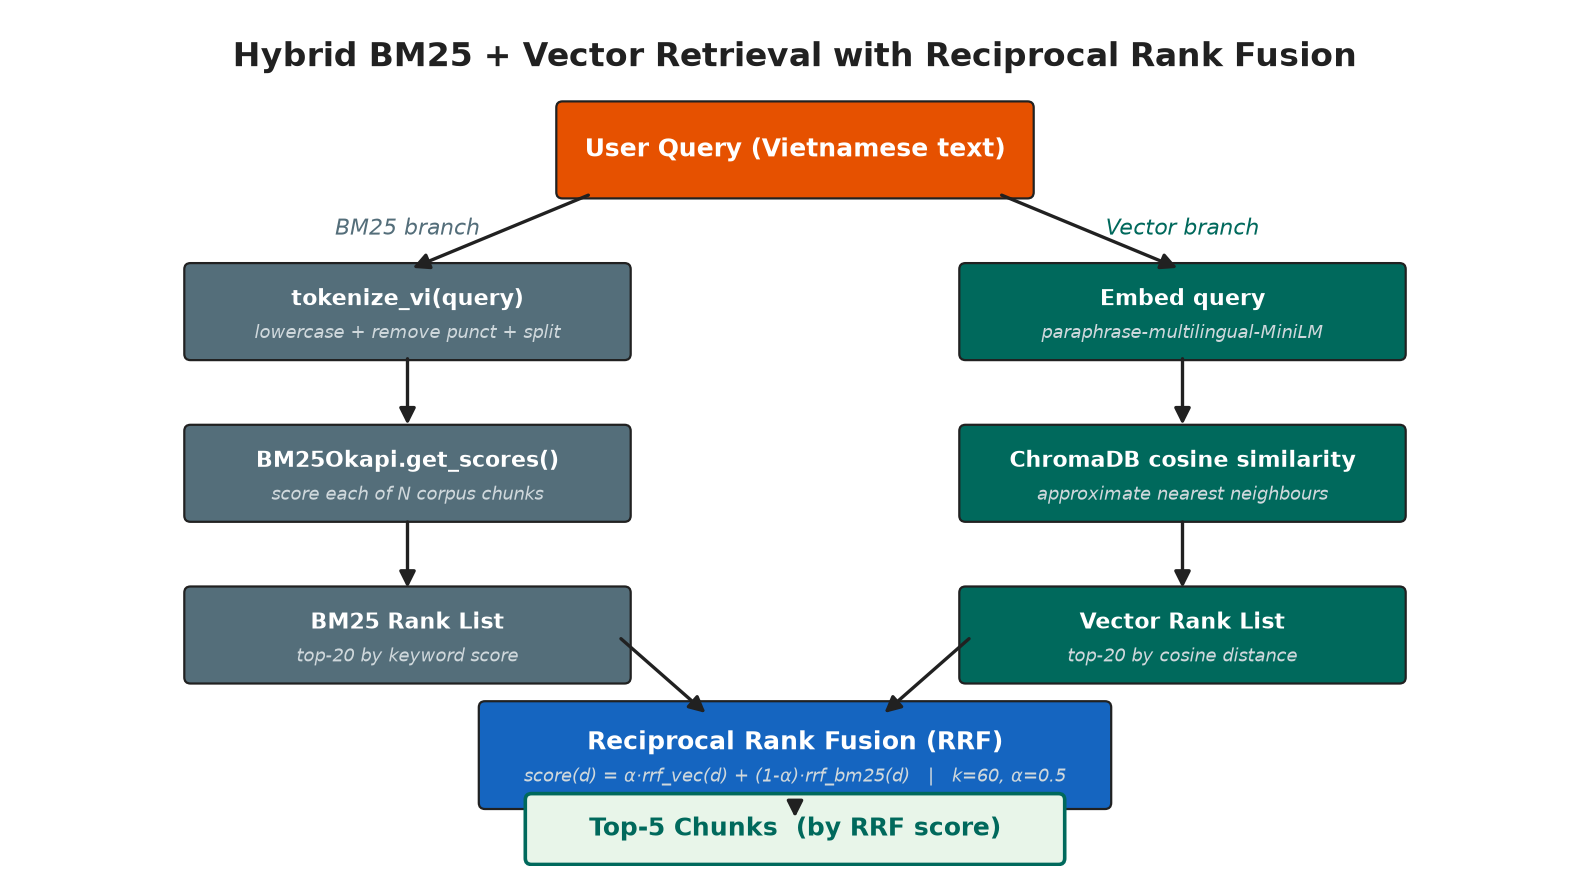
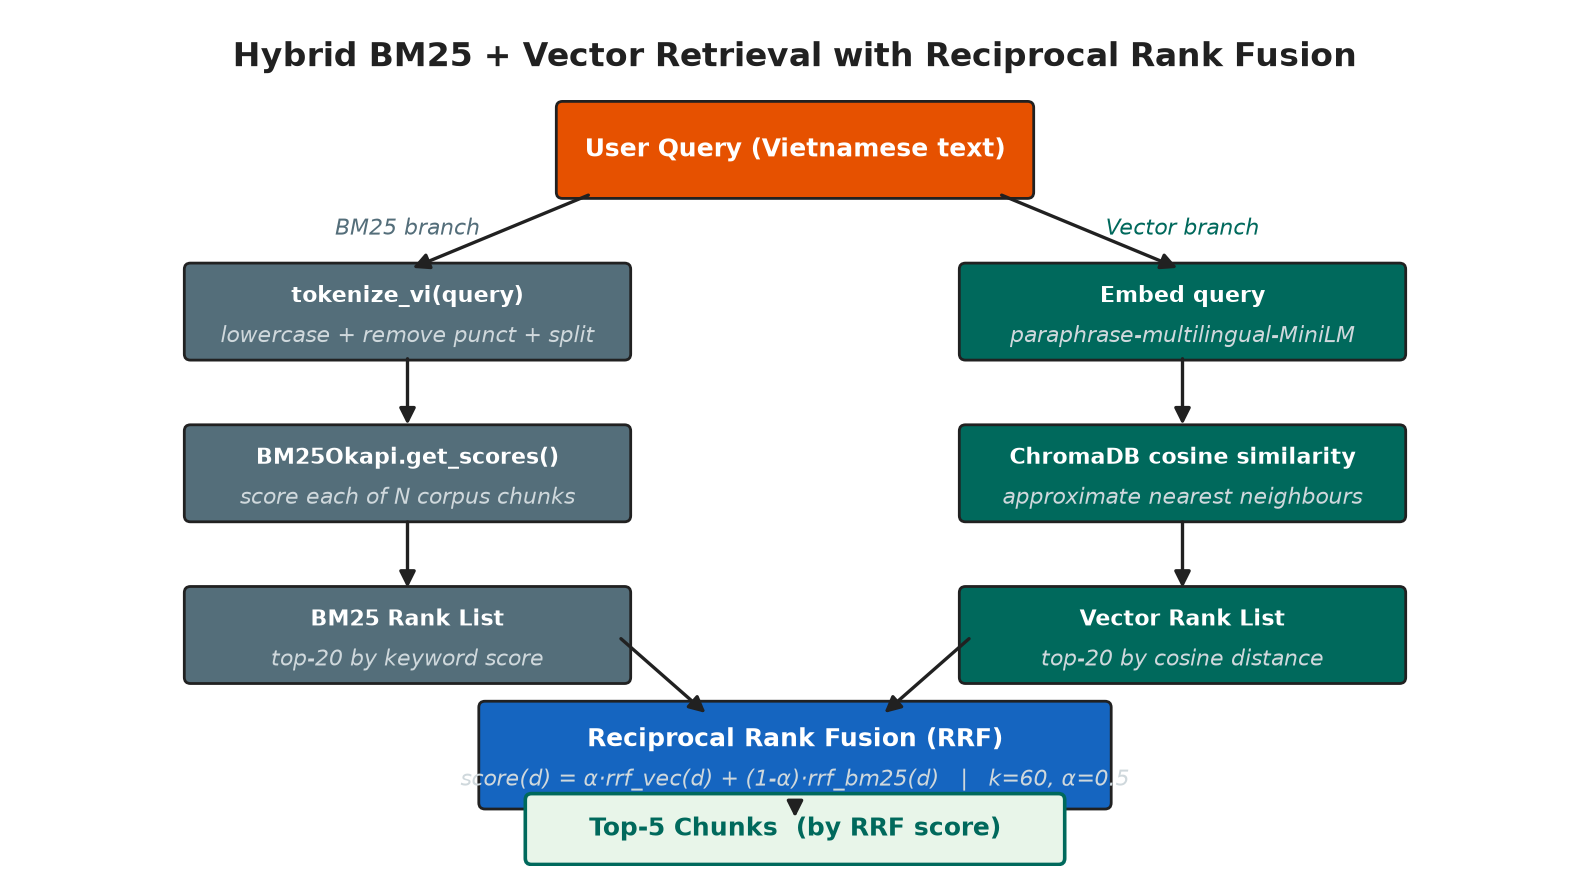
f

diff --git a/scripts/generate_thesis_figures.py b/scripts/generate_thesis_figures.py
@@ -130,19 +130,19 @@ def make_usth_logo():
 # ════════════════════════════════════════════════════════════════════════
 # 2. SYSTEM ARCHITECTURE DIAGRAM
 # ════════════════════════════════════════════════════════════════════════
-def _box(ax, x, y, w, h, label, sublabel="", color=C_BLUE, fontsize=9):
+def _box(ax, x, y, w, h, label, sublabel="", color=C_BLUE, fontsize=11):
     """Draw a rounded rectangle with label."""
     box = FancyBboxPatch((x - w/2, y - h/2), w, h,
                          boxstyle="round,pad=0.04",
                          facecolor=color, edgecolor=C_DARK,
-                         linewidth=0.8, zorder=3)
+                         linewidth=1.0, zorder=3)
     ax.add_patch(box)
-    ax.text(x, y + (0.08 if sublabel else 0), label,
+    ax.text(x, y + (0.10 if sublabel else 0), label,
             fontsize=fontsize, fontweight="bold", color=C_WHITE,
             ha="center", va="center", zorder=4)
     if sublabel:
-        ax.text(x, y - 0.14, sublabel,
-                fontsize=6.5, color="#CFD8DC",
+        ax.text(x, y - 0.16, sublabel,
+                fontsize=8, color="#CFD8DC",
                 ha="center", va="center", zorder=4, style="italic")
 
 
@@ -154,102 +154,102 @@ def _arrow(ax, x1, y1, x2, y2, color=C_DARK):
 
 
 def make_architecture():
-    fig, ax = plt.subplots(figsize=(11, 6.5), facecolor=C_LGREY)
-    ax.set_xlim(0, 11)
-    ax.set_ylim(0, 6.5)
+    fig, ax = plt.subplots(figsize=(14, 8), facecolor=C_LGREY)
+    ax.set_xlim(0, 14)
+    ax.set_ylim(0, 8)
     ax.axis("off")
 
     # Title
-    ax.text(5.5, 6.15, "End-to-End RAG Pipeline Architecture",
-            fontsize=13, fontweight="bold", color=C_DARK,
+    ax.text(7, 7.65, "End-to-End RAG Pipeline Architecture",
+            fontsize=16, fontweight="bold", color=C_DARK,
             ha="center", va="center")
 
     # ── OFFLINE phase (left side) ─────────────────────────────────
-    offline_bg = FancyBboxPatch((0.15, 2.2), 3.0, 3.9,
+    offline_bg = FancyBboxPatch((0.2, 2.6), 4.0, 5.0,
                                 boxstyle="round,pad=0.1",
                                 facecolor="#E3F2FD", edgecolor=C_BLUE,
-                                linewidth=1.2, linestyle="--", zorder=1)
+                                linewidth=1.4, linestyle="--", zorder=1)
     ax.add_patch(offline_bg)
-    ax.text(1.65, 5.85, "OFFLINE  (Indexing)", fontsize=8,
+    ax.text(2.2, 7.30, "OFFLINE  (Indexing)", fontsize=10,
             color=C_BLUE, ha="center", fontweight="bold")
 
-    _box(ax, 1.65, 5.30, 2.6, 0.52, "HR Documents (×20)",
-         "20 Vietnamese policy texts", color=C_TEAL, fontsize=8)
-    _arrow(ax, 1.65, 5.04, 1.65, 4.56)
+    _box(ax, 2.2, 6.70, 3.2, 0.65, "HR Documents (x20)",
+         "20 Vietnamese policy texts", color=C_TEAL)
+    _arrow(ax, 2.2, 6.38, 2.2, 5.82)
 
-    _box(ax, 1.65, 4.30, 2.6, 0.52, "Text Chunker",
-         "600 chars / 100 overlap", color=C_TEAL, fontsize=8)
-    _arrow(ax, 1.65, 4.04, 1.65, 3.56)
+    _box(ax, 2.2, 5.50, 3.2, 0.65, "Text Chunker",
+         "600 chars / 100 overlap", color=C_TEAL)
+    _arrow(ax, 2.2, 5.18, 2.2, 4.62)
 
-    _box(ax, 1.65, 3.30, 2.6, 0.52, "Multilingual Embedder",
-         "paraphrase-multilingual-MiniLM-L12-v2", color=C_TEAL, fontsize=8)
-    _arrow(ax, 1.65, 3.04, 1.65, 2.56)
+    _box(ax, 2.2, 4.30, 3.2, 0.65, "Multilingual Embedder",
+         "paraphrase-multilingual-MiniLM-L12-v2", color=C_TEAL)
+    _arrow(ax, 2.2, 3.98, 2.2, 3.42)
 
-    _box(ax, 1.65, 2.30, 2.6, 0.52, "ChromaDB  (Vector Store)",
-         "./chroma_db  |  384-dim  |  cosine", color="#1B5E20", fontsize=8)
+    _box(ax, 2.2, 3.10, 3.2, 0.65, "ChromaDB (Vector Store)",
+         "384-dim  |  cosine similarity", color="#1B5E20")
 
     # ── ONLINE phase (right side) ─────────────────────────────────
-    online_bg = FancyBboxPatch((3.5, 0.3), 7.3, 5.8,
+    online_bg = FancyBboxPatch((4.6, 0.3), 9.2, 7.3,
                                boxstyle="round,pad=0.1",
                                facecolor="#FFF8E1", edgecolor=C_ORANGE,
-                               linewidth=1.2, linestyle="--", zorder=1)
+                               linewidth=1.4, linestyle="--", zorder=1)
     ax.add_patch(online_bg)
-    ax.text(7.15, 5.85, "ONLINE  (Inference)", fontsize=8,
+    ax.text(9.2, 7.30, "ONLINE  (Inference)", fontsize=10,
             color=C_ORANGE, ha="center", fontweight="bold")
 
     # User query
-    _box(ax, 5.5, 5.30, 2.6, 0.52, "User Question",
-         "Vietnamese natural language query", color=C_ORANGE, fontsize=8)
+    _box(ax, 7.2, 6.70, 3.2, 0.65, "User Question",
+         "Vietnamese natural language", color=C_ORANGE)
 
-    _arrow(ax, 5.5, 5.04, 5.5, 4.56)
+    _arrow(ax, 7.2, 6.38, 7.2, 5.82)
 
-    _box(ax, 5.5, 4.30, 2.6, 0.52, "Query Embedder",
-         "same model as indexing", color=C_ORANGE, fontsize=8)
+    _box(ax, 7.2, 5.50, 3.2, 0.65, "Query Embedder",
+         "same model as indexing", color=C_ORANGE)
 
     # Split to BM25 and Vector
-    _arrow(ax, 4.3, 4.04, 3.9, 3.56)   # left branch → BM25
-    _arrow(ax, 6.7, 4.04, 7.1, 3.56)   # right branch → Vector
+    _arrow(ax, 5.8, 5.18, 5.2, 4.62)
+    _arrow(ax, 8.6, 5.18, 9.2, 4.62)
 
-    _box(ax, 3.6, 3.30, 2.2, 0.52, "BM25 Search",
-         "BM25Okapi + tokenize_vi()", color=C_GREY, fontsize=8)
-    _box(ax, 7.4, 3.30, 2.2, 0.52, "Vector Search",
-         "ChromaDB cosine similarity", color=C_GREY, fontsize=8)
+    _box(ax, 5.0, 4.30, 2.8, 0.65, "BM25 Search",
+         "BM25Okapi + tokenize_vi()", color=C_GREY)
+    _box(ax, 9.4, 4.30, 2.8, 0.65, "Vector Search",
+         "ChromaDB cosine similarity", color=C_GREY)
 
     # Merge to RRF
-    _arrow(ax, 3.6, 3.04, 4.8, 2.56)
-    _arrow(ax, 7.4, 3.04, 6.2, 2.56)
+    _arrow(ax, 5.0, 3.98, 6.3, 3.42)
+    _arrow(ax, 9.4, 3.98, 8.1, 3.42)
 
-    _box(ax, 5.5, 2.30, 3.2, 0.52,
+    _box(ax, 7.2, 3.10, 4.0, 0.65,
          "Reciprocal Rank Fusion (RRF)",
-         r"score = α·rrf_vector + (1−α)·rrf_bm25   k=60, α=0.5",
-         color=C_BLUE, fontsize=8)
+         "score = a*rrf_vec + (1-a)*rrf_bm25  |  k=60, a=0.5",
+         color=C_BLUE)
 
-    _arrow(ax, 5.5, 2.04, 5.5, 1.56)
+    _arrow(ax, 7.2, 2.78, 7.2, 2.22)
 
-    _box(ax, 5.5, 1.30, 3.2, 0.52, "Phi-3-Mini  (GGUF Q4)",
-         "llama-cpp-python  |  <|user|>...<|end|>  |  top-5 chunks",
-         color=C_BLUE, fontsize=8)
+    _box(ax, 7.2, 1.90, 4.0, 0.65, "Phi-3-Mini  (GGUF Q4)",
+         "llama-cpp-python  |  top-5 chunks",
+         color=C_BLUE)
 
-    _arrow(ax, 5.5, 1.04, 5.5, 0.60)
+    _arrow(ax, 7.2, 1.58, 7.2, 1.02)
 
     # Answer
-    ans_box = FancyBboxPatch((3.9, 0.35), 3.2, 0.46,
+    ans_box = FancyBboxPatch((5.0, 0.52), 4.4, 0.55,
                              boxstyle="round,pad=0.04",
                              facecolor="#E8F5E9", edgecolor=C_TEAL,
-                             linewidth=1.2, zorder=3)
+                             linewidth=1.3, zorder=3)
     ax.add_patch(ans_box)
-    ax.text(5.5, 0.58, "Vietnamese Answer  +  Source Attribution",
-            fontsize=8.5, fontweight="bold", color=C_TEAL,
+    ax.text(7.2, 0.80, "Vietnamese Answer + Source Attribution",
+            fontsize=11, fontweight="bold", color=C_TEAL,
             ha="center", va="center", zorder=4)
 
-    # Cross-link: ChromaDB → Vector Search
-    ax.annotate("", xy=(7.1, 3.56), xytext=(2.95, 2.30),
+    # Cross-link: ChromaDB -> Vector Search
+    ax.annotate("", xy=(9.0, 4.62), xytext=(3.8, 3.10),
                 arrowprops=dict(arrowstyle="-|>", color=C_TEAL,
                                 lw=1.0, linestyle="dashed",
-                                mutation_scale=10,
+                                mutation_scale=12,
                                 connectionstyle="arc3,rad=-0.3"),
                 zorder=5)
-    ax.text(5.1, 2.85, "query", fontsize=6.5, color=C_TEAL, style="italic")
+    ax.text(6.5, 3.70, "query", fontsize=8, color=C_TEAL, style="italic")
 
     path = OUT / "architecture.png"
     fig.savefig(path, dpi=DPI, bbox_inches="tight", facecolor=C_LGREY)

diff --git a/report/thesis.tex b/report/thesis.tex
@@ -187,8 +187,8 @@
 
   % ── Supervisors (tabular, left-aligned, matching template spacing) ──
   \begin{tabular}{r@{\quad}l}
-    \textbf{External Supervisor:} & Dr.\ Tr\`{a}n \DJ{}\`{\i}nh Ch\'{\i} \\[6pt]
-    \textbf{Internal Supervisor:} & Dr.\ Tr\`{a}n Ho\`{a}ng T\`{u}ng  \\
+    \textbf{External Supervisor:} & Dr.\ Trần Đình Chí \\[6pt]
+    \textbf{Internal Supervisor:} & Dr.\ Trần Hoàng Tùng  \\
   \end{tabular}
 
   % ── Date ───────────────────────────────────────────────────────────
@@ -217,7 +217,7 @@ To whom it may concern,
 
 \vspace{1.2cm}
 
-\noindent I, \textbf{Tr\`{a}n \DJ{}\`{\i}nh Ch\'{\i}}
+\noindent I, \textbf{Trần Đình Chí}
 (supervisor's name), certify that the thesis/ internship report of
 Mr/Ms.\ \textbf{Nguyen Duy Ngoc} (student's name) is qualified to be
 presented in the Internship Jury 2025--2026.
@@ -295,10 +295,10 @@ I would like to express my sincere gratitude to all those who supported me
 throughout the completion of this thesis.
 
 First and foremost, I am deeply grateful to my External Supervisor,
-Dr.\ Tr\`{a}n \DJ{}ình Chí, for his insightful guidance, constructive
+Dr.\ Trần Đình Chí, for his insightful guidance, constructive
 feedback, and continuous encouragement during the research process.
 
-I also sincerely thank my Internal Supervisor, Dr.\ Tr\`{a}n Ho\`{a}ng T\`{u}ng,
+I also sincerely thank my Internal Supervisor, Dr.\ Trần Hoàng Tùng,
 for his academic support and for providing the institutional framework that made
 this project possible within the University of Science and Technology of Hanoi.
 
@@ -1081,7 +1081,7 @@ Chroma Inc.,
 ``ChromaDB: The open-source embedding database,'' 2023.
 \newline\url{https://docs.trychroma.com/}
 
-\bibitem{bllđ2019}
+\bibitem{blld2019}
 Quốc Hội Việt Nam,
 ``Bộ Luật Lao Động,'' Luật số 45/2019/QH14, 2019.
 \newline\url{https://thuvienphapluat.vn/van-ban/Lao-dong-Tien-luong/Bo-Luat-lao-dong-2019-388600.aspx}
